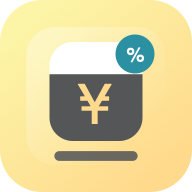
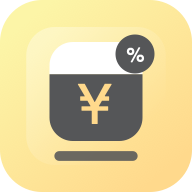
style: remove teal accent from palette

Changed region(s): [[0.5938, 0.1562, 0.8125, 0.4062]]

diff --git a/style.css b/style.css
@@ -10,12 +10,12 @@
   --border: rgba(85, 86, 88, 0.18);
   --border-strong: rgba(85, 86, 88, 0.34);
   --accent: #ffd98c;
-  --accent-strong: #2b90a2;
+  --accent-strong: #555658;
   --accent-soft: #fcf5a7;
   --display-bg: #555658;
-  --display-bg-2: #2b90a2;
+  --display-bg-2: #555658;
   --display-fg: #ffffff;
-  --danger: #2b90a2;
+  --danger: #ffffff;
   --shadow: 0 18px 44px rgba(85, 86, 88, 0.16);
   --radius: 8px;
 }
@@ -69,7 +69,7 @@ button:focus {
 
 button:focus-visible,
 input[type="number"]:focus-visible {
-  outline: 2px solid rgba(43, 144, 162, 0.78);
+  outline: 2px solid rgba(255, 217, 140, 0.86);
   outline-offset: 2px;
 }
 
@@ -255,8 +255,8 @@ label,
 }
 
 .input-row:focus-within {
-  border-color: rgba(43, 144, 162, 0.72);
-  box-shadow: 0 0 0 4px rgba(43, 144, 162, 0.14);
+  border-color: rgba(255, 217, 140, 0.92);
+  box-shadow: 0 0 0 4px rgba(255, 217, 140, 0.24);
 }
 
 input[type="number"] {
@@ -480,7 +480,7 @@ input[type="number"]::-webkit-inner-spin-button {
 }
 
 .result-card.is-negative {
-  border-color: rgba(43, 144, 162, 0.42);
+  border-color: rgba(255, 217, 140, 0.52);
 }
 
 @media (hover: hover) {

diff --git a/sw.js b/sw.js
@@ -1,4 +1,4 @@
-const CACHE_NAME = "meilu-calculator-2026-06-12-9";
+const CACHE_NAME = "meilu-calculator-2026-06-12-10";
 
 const APP_SHELL = [
   "./",
